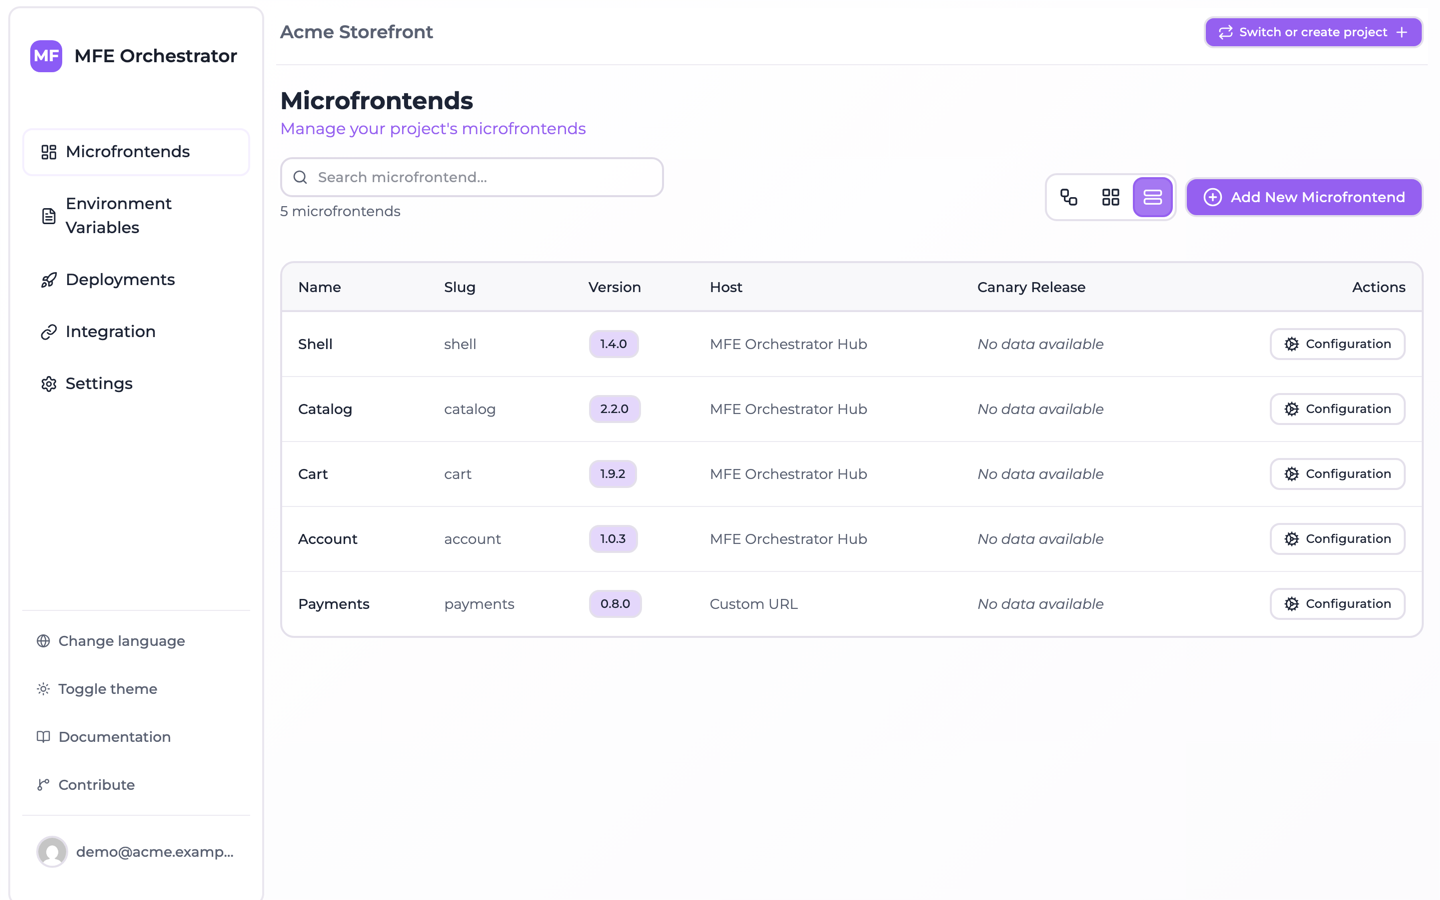
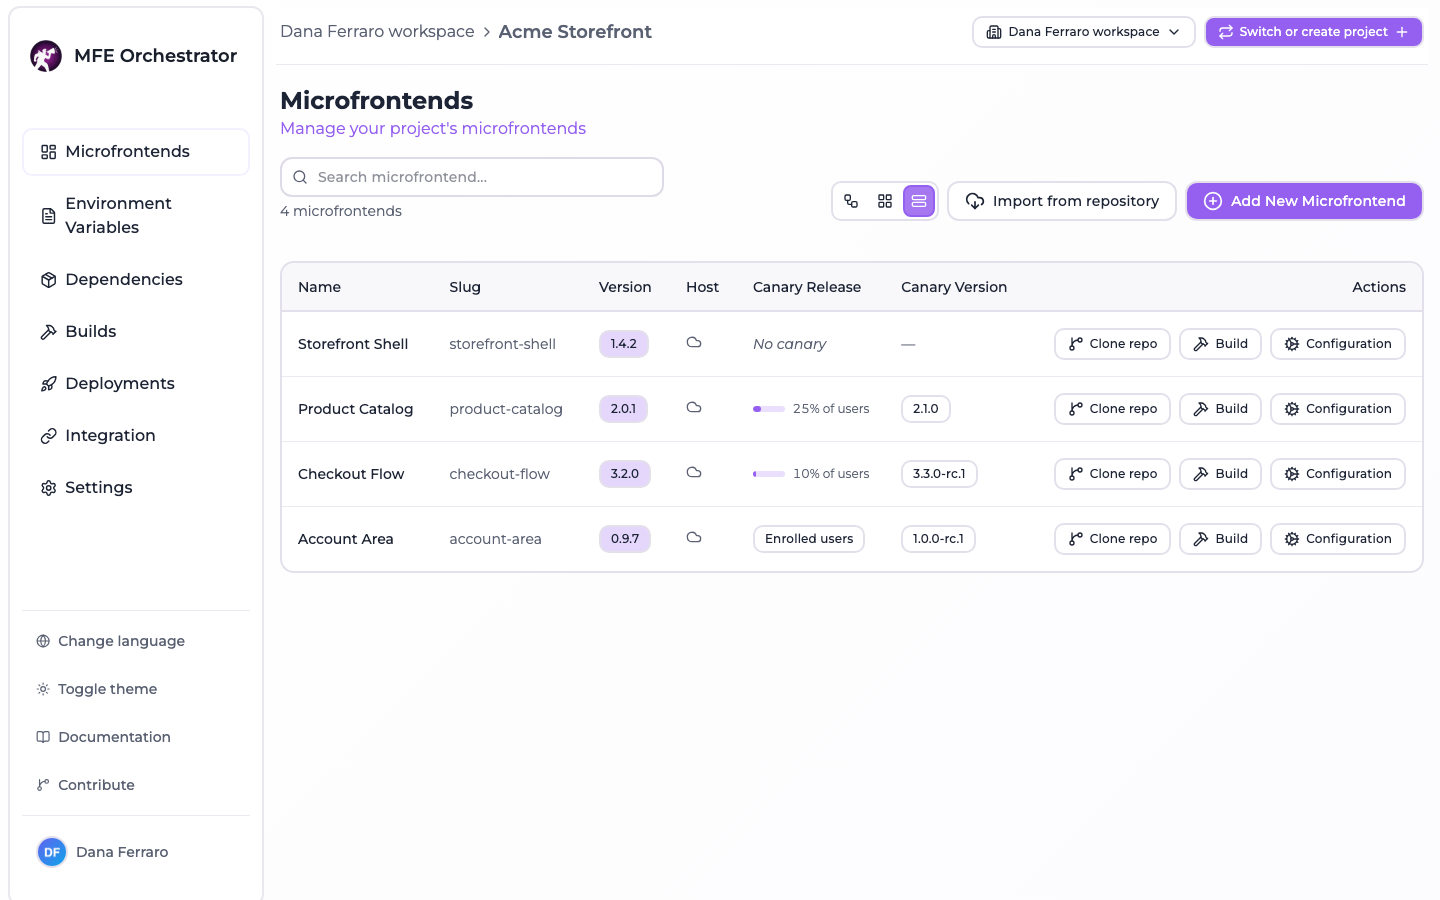
docs: bring the canary pages up to the shipped feature
The canary page was written against an earlier build and had drifted in ways
that mattered. It said that setting the percentage to zero and deploying takes
everyone back to stable: the form rejects an enabled canary at 0%, so that path
does not exist, and the switch is the stop button. It sent the reader looking
for Canary Settings inside the microfrontend tabs, while the section now lives
in a Release card above them. The field order and the accepted id separators
were wrong, and a Based on URL canary reports the stable version in the
manifest even while it hands out the canary URL, which was not stated at all.

The neighbouring pages carried their own stale claims: the microfrontends
overview promised a status filter that does not exist and a storage field the
cards never show, the create page listed canary settings as a form section, and
the deployments page described a single type badge with no User case.

Five of the screenshots predated the feature shipping - one of them still
showed a greyed COMING SOON badge - and were recaptured along with three new
ones, from e2e/tests/screenshots-canary.spec.ts in the product repository.

diff --git a/docs/microfrontends/canary-releases.md b/docs/microfrontends/canary-releases.md
@@ -15,15 +15,27 @@ to.
 
 ## Enabling a canary
 
-Open the microfrontend, find **Canary Settings** and turn the switch on. The section then asks for
-four things:
+Open the microfrontend. **Release** is the first card of the form and it sits *above* the tabs, so
+it is on screen whichever of **General**, **Hosting**, **Repository** or **Danger Zone** is
+selected: the version and the canary decide which bytes a browser gets, and they are not something
+you should have to go looking for. Under the version, past a divider, is **Canary Settings** and
+its switch.
+
+![The Canary Settings section of the microfrontend form with the switch on, the percentage slider and its presets, the canary type and deployment type selects and the canary version field](../assets/microfrontend-canary.png)
+
+Turned on, the section asks for four things, in this order:
 
 | Field | Meaning |
 | --- | --- |
-| **Canary Type** | Who gets the canary — *Random*, *Session* or *User* |
 | **Canary Percentage** | Share of traffic that should receive the canary, as a slider with 5, 10, 25 and 50 presets. Not asked for by *User*, which enrols people instead of splitting traffic |
+| **Canary Type** | Who gets the canary — *Random*, *Session* or *User* |
 | **Deployment Type** | What the canary is — *Based on Version* or *Based on URL* |
 | **Canary Version** / **Canary URL** | The target, depending on the deployment type |
+
+A sentence under the two selects spells out what the selected type does, because the three names
+are not enough to tell them apart. The percentage has to be between 1 and 100 while the canary is
+enabled — 0 is refused, which is deliberate: a canary configured to reach nobody is a
+misconfiguration and not a way to switch it off. Turning the switch off is.
 
 Canary configuration is part of the microfrontend, so like everything else it is captured in a
 [deployment](../deployments/overview.md) and only becomes live once you deploy. Expanding a
@@ -31,10 +43,20 @@ deployment under **Deployments** shows a card per microfrontend with its stable 
 types, and the canary share — or *Enrolled users*, for a *User* canary, which has no share. It is
 the quickest way to confirm what a deployment will actually do.
 
+![The microfrontend cards of an expanded deployment, each with its stable version, canary share, canary type and deployment type badges and canary version](../assets/deployment-canary-cards.png)
+
+The microfrontends list carries the same information in shorter form. A grid card shows the share
+as a bar with the canary version underneath; the table view gives it a column of its own, next to
+a **Canary Version** column, and says *No canary* for the microfrontends that have none.
+
+![A microfrontend card in grid view showing the canary block: the share as a percentage, a progress bar and the canary version](../assets/microfrontend-canary-card.png)
+
 ## Who — the canary type
 
 The three types answer two different questions, and it is worth being clear about which one you are
 asking.
+
+![The Canary Type select open, showing the three options Random, Session and User](../assets/microfrontend-canary-type.png)
 
 | Canary Type | Who gets the canary | Sticky? |
 | --- | --- | --- |
@@ -189,9 +211,9 @@ deployment under **Deployments** — the active one or any in the history — an
 
 ![The canary users table with every row selected and the bulk enable, disable and remove actions](../assets/canary-users.png)
 
-- **Add** one or more user ids. Paste a list separated by commas, spaces or new lines to enrol a
-  whole group in one go; the input de-duplicates, so a list copied out of a spreadsheet or a query
-  result works as it is.
+- **Add** one or more user ids. Paste a list separated by commas, spaces or new lines — semicolons
+  work too — to enrol a whole group in one go; the input de-duplicates, so a list copied out of a
+  spreadsheet or a query result works as it is.
 - **Toggle** a row between *Canary* and *Excluded* to suspend someone without losing the entry.
 - **Remove** a row to send that person back to the stable version.
 - **Select rows** with the checkboxes to enable, disable or remove all of them at once — the same
@@ -243,8 +265,10 @@ a reload. Resolving your remotes behind your own auth guard avoids the question 
 - **Based on URL canaries cannot be inspected the same way.** The split itself works exactly as
   described — the type decides it, and *Session* is as sticky there as anywhere else — but there is
   no version of ours in play: the host is simply handed one URL or the other. Nothing serves those
-  files, so they carry no `x-mfe-version` header and `?mfeVersion=` has nothing to force. Prefer
-  *Based on Version* when you want to watch a rollout rather than just perform one.
+  files, so they carry no `x-mfe-version` header and `?mfeVersion=` has nothing to force. The
+  manifest is no help either — with no version of ours to report, its `version` field names the
+  microfrontend's stable version whichever of the two URLs it just handed out. Prefer *Based on
+  Version* when you want to watch a rollout rather than just perform one.
 - **The manifest is fetched once per page load and is not retried.** If that request fails, the
   remotes of that page load fail with it; the SDK clears its memo so the next call tries again.
 
@@ -263,9 +287,10 @@ decision you have already made. The presets on the slider exist for that reason.
 matters: every step keeps the browsers already on the canary where they are and only adds new ones,
 so you are never re-running the split on people who have been fine for an hour.
 
-**Roll back by lowering the percentage, not by rewriting the version.** Setting it to 0 and
-deploying takes everyone back to the stable version and keeps the canary configuration around for
-the next attempt. Turning the switch off does the same, more bluntly. For anything worse than a bad
+**Roll back by turning the canary off, not by rewriting the version.** The switch is the stop
+button: the fields keep what you typed, so the next attempt starts from the configuration you
+already had. Lowering the percentage is the gentler version of the same move, but it does not reach
+zero — the form refuses a canary that is enabled and set to 0%. For anything worse than a bad
 canary there is [rollback and redeploy](../deployments/rollback-and-redeploy.md).
 
 **Verify with the header, not by counting.** Before you trust a rollout, load the host twice — once

diff --git a/docs/microfrontends/create-a-microfrontend.md b/docs/microfrontends/create-a-microfrontend.md
@@ -91,17 +91,24 @@ create an [API key](../ci-cd/api-keys.md) yourself.
 
 ## Editing a microfrontend
 
-Clicking a microfrontend opens the same form in edit mode, organised into sections:
+Clicking a microfrontend opens the same form in edit mode. **Release** sits at the top, outside the
+tabs, because the version and the canary are what decide which bytes a browser gets; everything
+else is behind a tab:
 
-| Section | Contains |
+| Where | Contains |
 | --- | --- |
-| General information | Name, slug, description, version, continuous deployment |
-| Hosting information | Hosting type, entry point, storage or URL |
-| Canary settings | Progressive rollout — see [Canary releases](./canary-releases.md) |
-| Code repository | The linked repository |
-| Danger zone | Delete this microfrontend |
+| Release (above the tabs) | Version, and **Canary Settings** — progressive rollout, see [Canary releases](./canary-releases.md) |
+| General | Name, slug, description, continuous deployment |
+| Hosting | Hosting type, entry point, storage or URL |
+| Repository | The linked repository |
+| Danger Zone | Delete this microfrontend |
 
-![The microfrontend form, with general information, hosting and canary sections](../assets/microfrontend-form.png)
+Switching tab keeps what you typed: every panel stays mounted, so a value entered under **Hosting**
+survives a detour through **General**. A tab whose fields failed validation is marked with a dot,
+and submitting an invalid form jumps to the first one — an error is never hidden behind an inactive
+tab.
+
+![The microfrontend form in edit mode: the Release card with the version and the canary settings above the General, Hosting, Repository and Danger Zone tabs](../assets/microfrontend-form.png)
 
 Remember that edits take effect for your users only after the next
 [deployment](../deployments/overview.md).

diff --git a/docs/microfrontends/overview.md b/docs/microfrontends/overview.md
@@ -39,8 +39,9 @@ corner:
 
   ![Diagram view: a shell host with catalog, cart and account remotes](../assets/microfrontends-diagram-view.png)
 
-- **Grid view** — a card per microfrontend, showing version, repository, storage and canary
-  badges at a glance.
+- **Grid view** — a card per microfrontend, showing its version, its linked repository and, when
+  one is configured, the canary: the share of traffic it takes as a bar, or *Enrolled users* for a
+  [*User* canary](./canary-releases.md#who--the-canary-type), and the canary version underneath.
 
   ![Grid view: one card per microfrontend](../assets/microfrontends-grid-view.png)
 
@@ -48,7 +49,8 @@ corner:
 
   ![Table view: name, slug, version, hosting and canary in one row per microfrontend](../assets/microfrontends-table-view.png)
 
-You can filter the list by free-text search and by status.
+A free-text search above the views filters the list by name, and the counter next to it says how
+many of the total are showing.
 
 ## Anatomy of a microfrontend
 

diff --git a/docs/deployments/overview.md b/docs/deployments/overview.md
@@ -63,7 +63,9 @@ The page has two parts:
 **Active deployment** — the snapshot currently serving this environment, expandable to show:
 
 - **Microfrontends** — one card each, with the version frozen in this snapshot and, when a canary
-  is configured, the share of traffic it takes, its type and its target version or URL
+  is configured, the share of traffic it takes — or *Enrolled users*, for a
+  [*User* canary](../microfrontends/canary-releases.md#who--the-canary-type), which splits nothing
+  — next to its canary type, its deployment type and its target version or URL
 - **Environment variables** — the values frozen in this snapshot
 - **View canary users** — the enrolment list of this deployment
 
